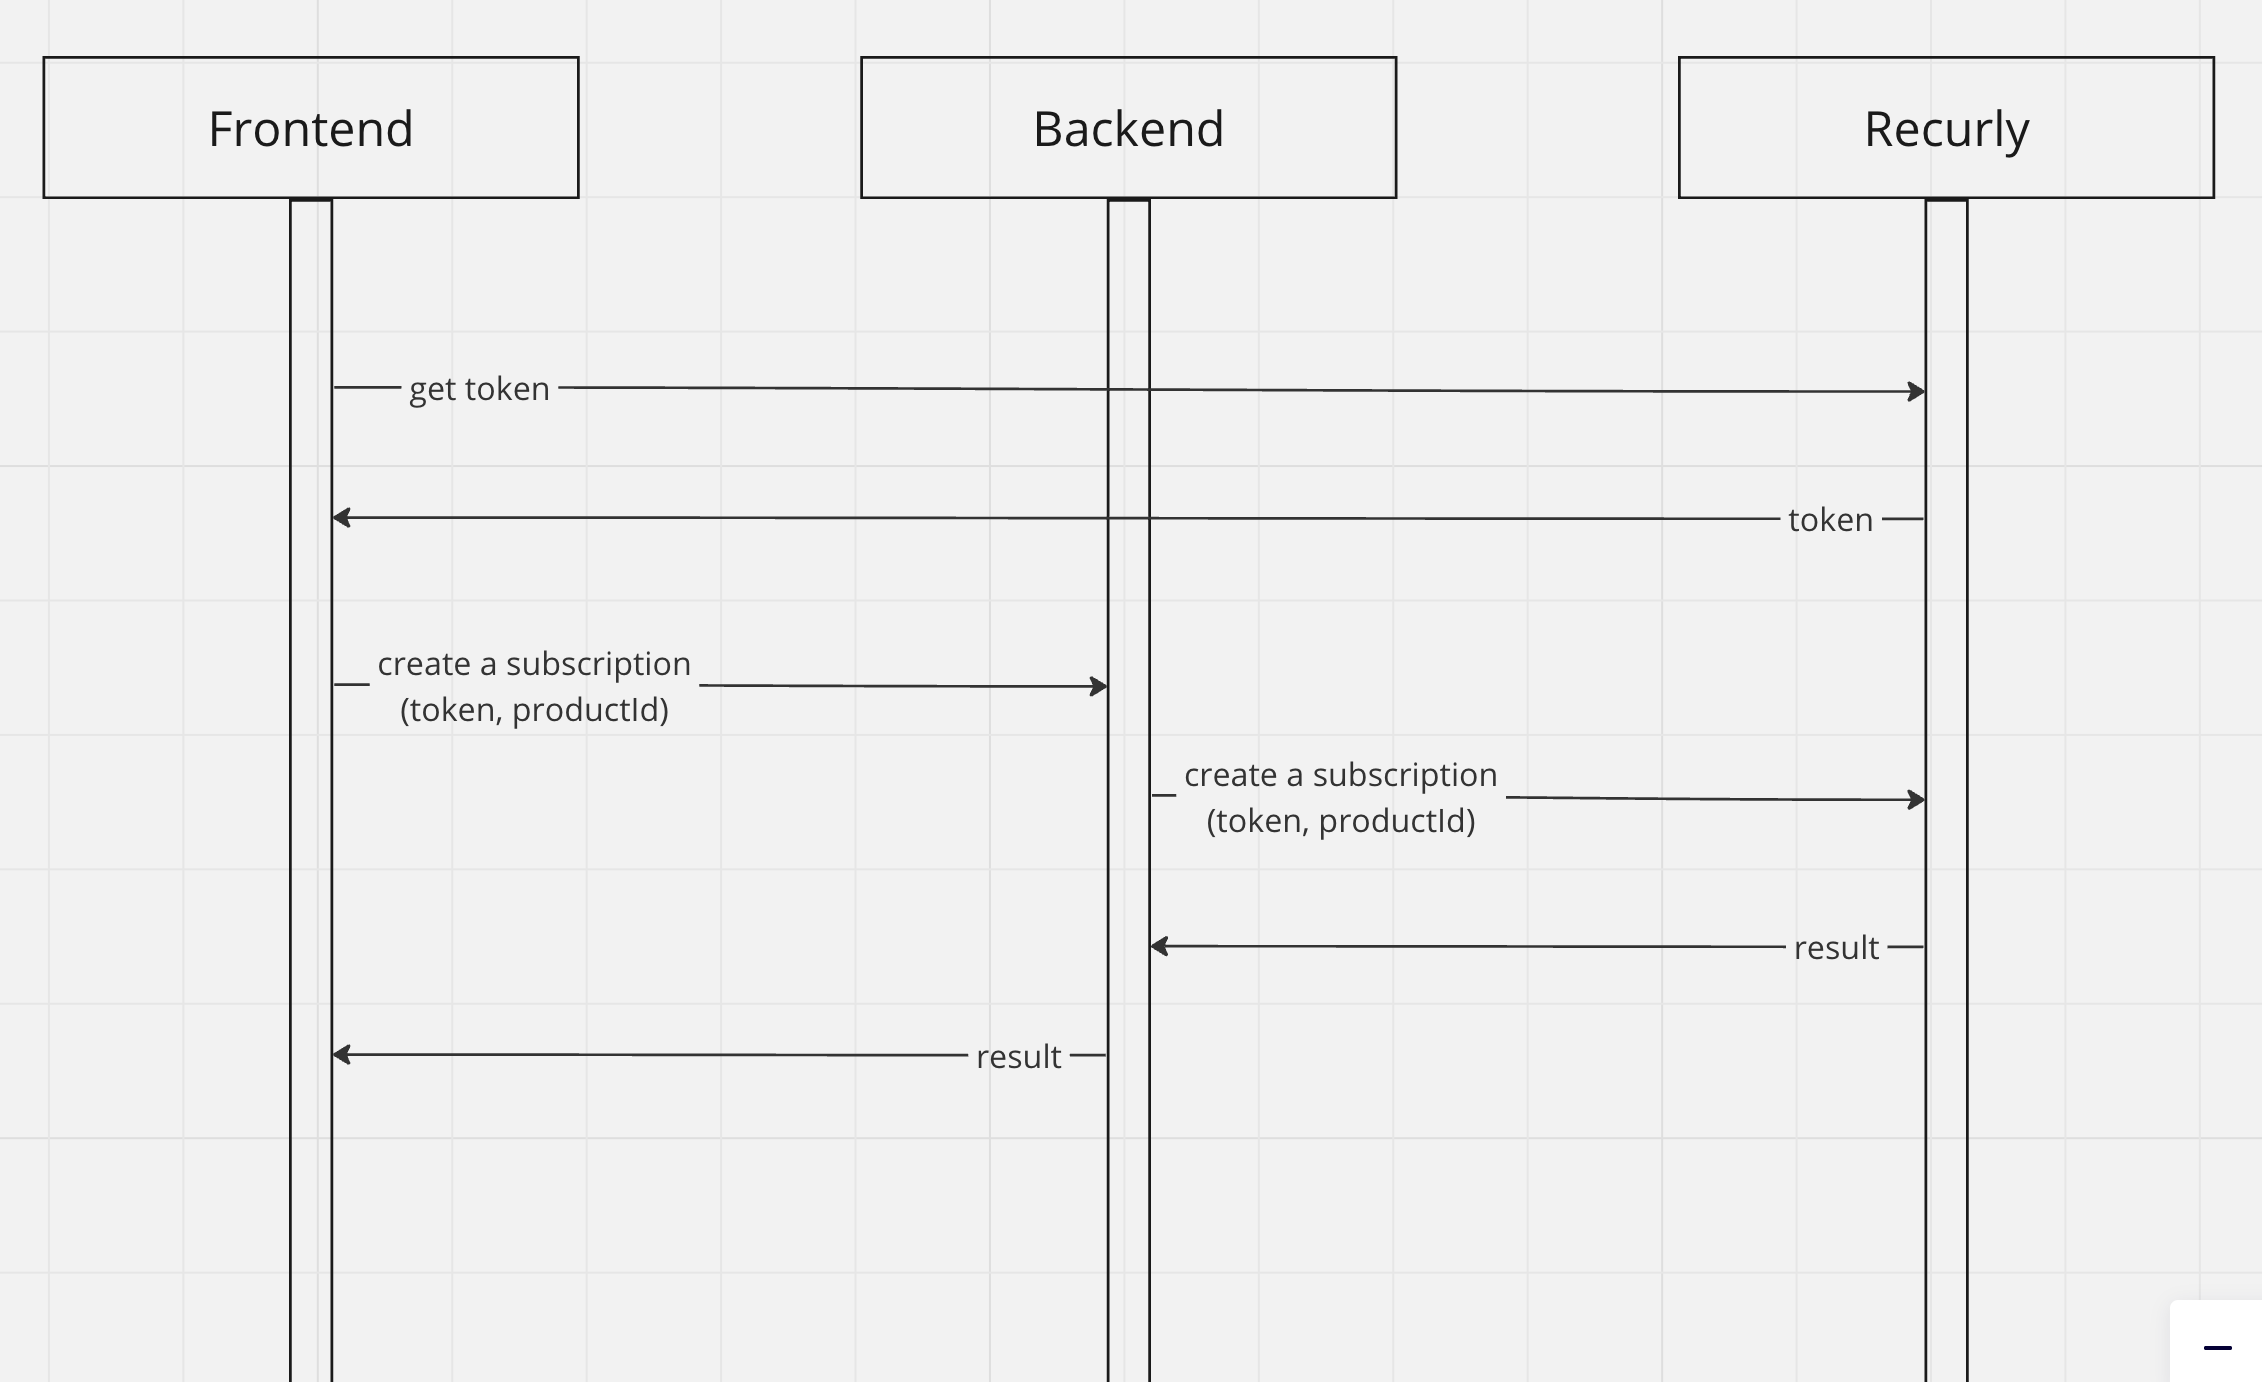
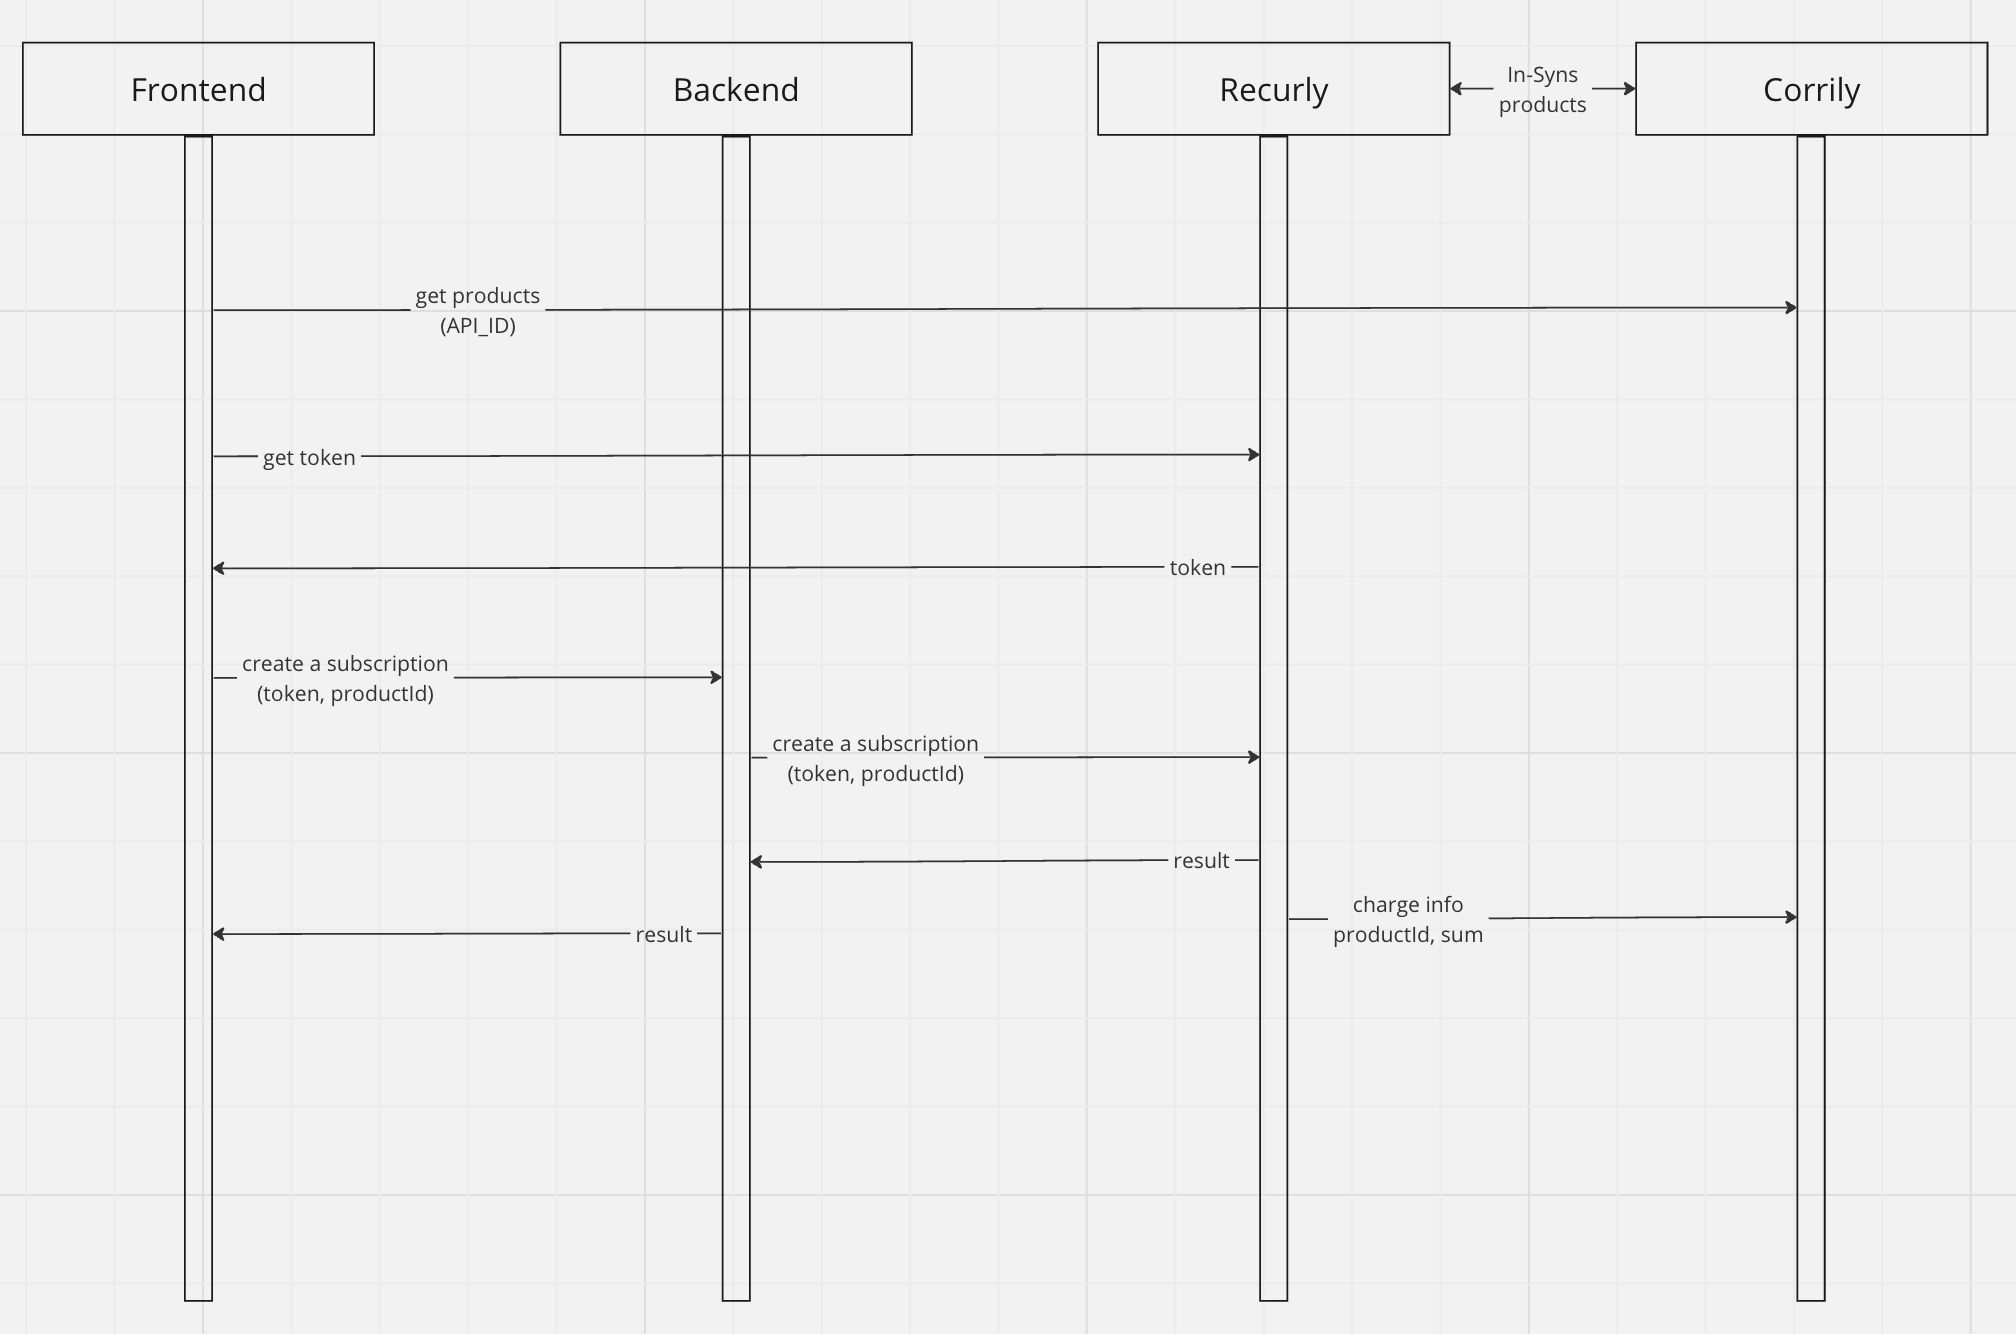
added docs

diff --git a/README.md b/README.md
@@ -1,14 +1,20 @@
 # Getting Started @corrily/react-sdk
 
 ### Preparations
-You need to create:  
+1. Corrily account  
+2. In Corrily account you should have:
  - products  
  - a package  
- - segmentation for a package  
+ - a segmentation for a package  
  - (optional) create features and attach features to products  
+ - a Paywall  
+3. Recurly account  
+ - Private API key  
 
+### Integration communication schema
+<image src="./docs/images/sequence.png" />
 
-### Integration
+### Steps
 1. Install @corrily/react-sdk into your frontend:
 
 ```bash
@@ -19,7 +25,7 @@ npm i --save @corrily/react-sdk
 npm i --save @corrily/react-sdk --legacy-peed-deps
 ```
 
-2. Add CorrilyProvider:
+2. Add CorrilyProvider:  
 _For authenticated users you should pass their id._  
 ```typescript
 const currentUserId = 'test-user-id';
@@ -29,11 +35,11 @@ const currentUserId = 'test-user-id';
   params={{
     user_id: currentUserId,
   }}
-  >
+>
   ...
 </CorrilyProvider>
 ```
-**PAYWALL_API_ID** you can find by path:  
+**PAYWALL_API_ID** you can find in Corrily Dashboard:  
 Dashboard => Paywalls => {Your Paywall} => Publish tab => "API ID" area  
 
 3. Use a Paywall component to show the Paywall:
@@ -42,25 +48,10 @@ Dashboard => Paywalls => {Your Paywall} => Publish tab => "API ID" area
 <Paywall />
 ```
 
-
-Recurly integration.
-First of all, you need to install recurly react module:
-
-```bash
-npm i --save @recurly/react-recurly
-```
-
-Secondly, you need to integrate a script for js and styles into index.html:
-
-```
-<link rel="stylesheet" href="https://js.recurly.com/v4/recurly.css"> 
-<script src="https://js.recurly.com/v4/recurly.js"></script>
-```
-
-### Integration communication schema
-
-<image src="./docs/images/sequence.png" />
+4. Integrate recurly  
+Add necessary dependencies and code changes according to documentation [here]([recurly-react](https://github.com/recurly/react-recurly))  
 
 
 ### Links
  - [Paywalls documentation](https://docs.corrily.com/paywall-builder/configure)  
+ - [recurlt-react](https://github.com/recurly/react-recurly)  
